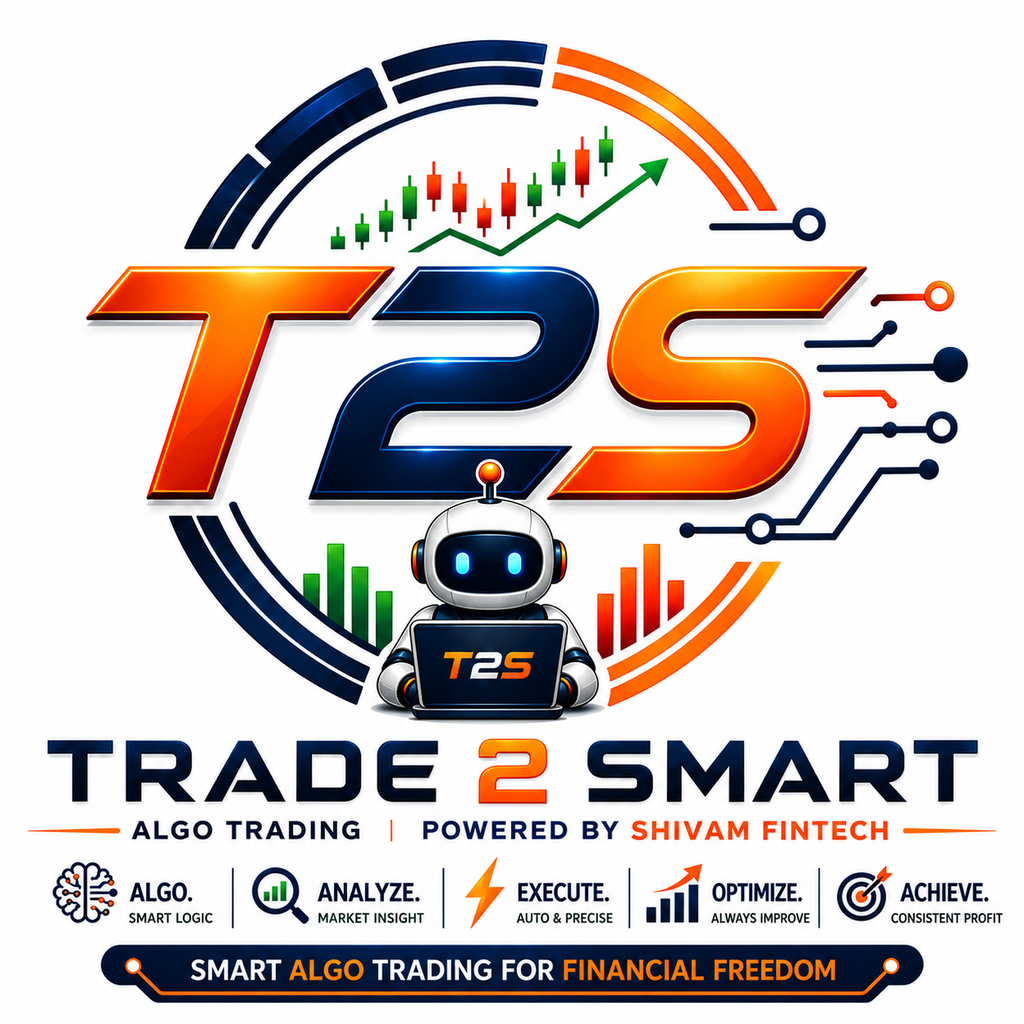
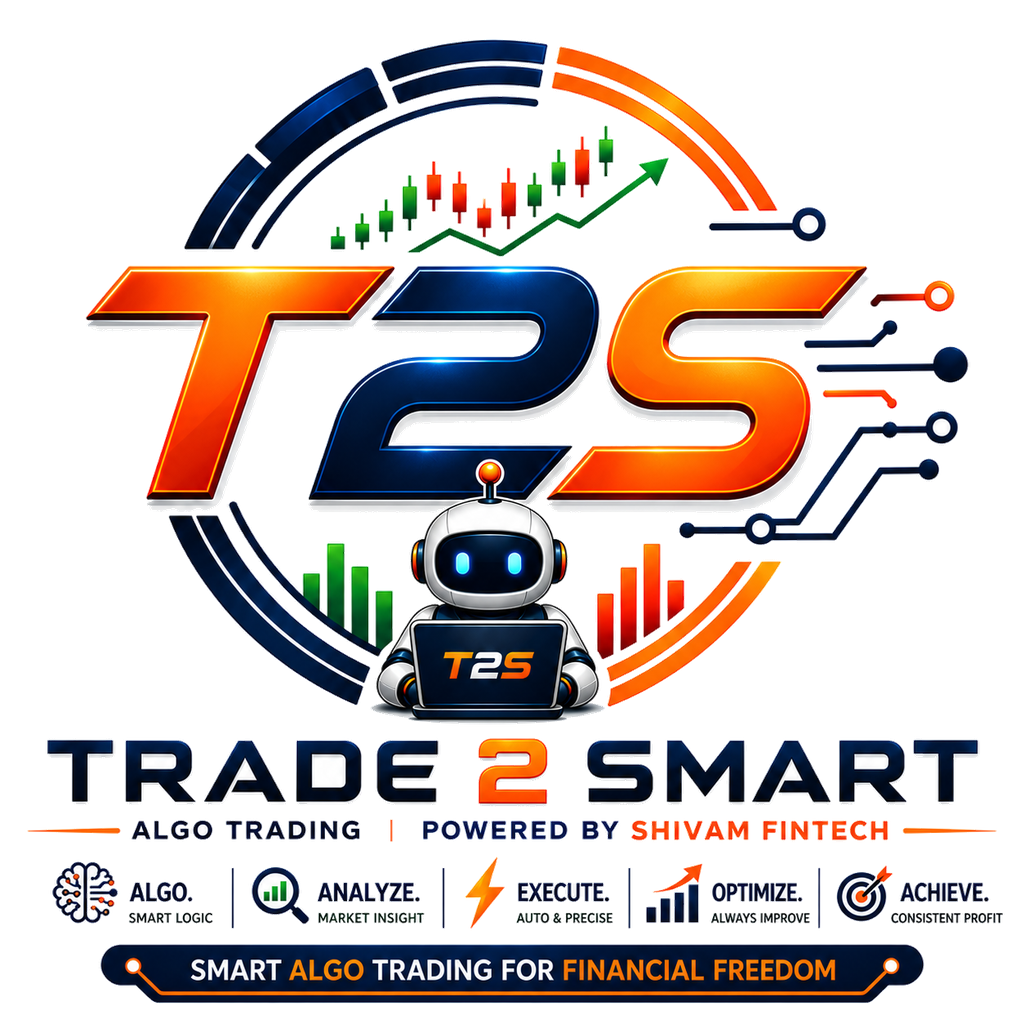
Match the T2S lockup to the login canvas
Knock the white plate out of the logo so the artwork sits on the page and card backgrounds, and drop the extra white frames around the login thumbnail.

diff --git a/src/login.css b/src/login.css
@@ -117,9 +117,7 @@
   height: auto;
   margin: 0 0 12px;
   object-fit: contain;
-  background: #fff;
-  border-radius: 28px;
-  box-shadow: 0 18px 50px rgba(15, 23, 42, 0.1);
+  background: transparent;
 }
 
 .t2s-login-panel {
@@ -142,16 +140,13 @@
 
 .t2s-login-avatar {
   display: flex;
-  width: 148px;
-  height: 148px;
+  width: 168px;
+  height: 168px;
   margin: 0 auto 16px;
   align-items: center;
   justify-content: center;
   overflow: hidden;
-  border-radius: 28px;
-  background: #fff;
-  border: 1px solid var(--border);
-  box-shadow: 0 12px 28px rgba(15, 23, 42, 0.08);
+  background: transparent;
 }
 
 .t2s-login-avatar img {
@@ -159,6 +154,7 @@
   height: 100%;
   object-fit: contain;
   display: block;
+  background: transparent;
 }
 
 .t2s-login-title {

diff --git a/index.html b/index.html
@@ -46,7 +46,7 @@
   <body>
     <div id="root">
       <div id="t2s-boot">
-        <img src="/t2s-logo.png" alt="Trade 2 Smart" width="120" height="120" style="background:#fff;border-radius:24px;padding:6px" />
+        <img src="/t2s-logo.png" alt="Trade 2 Smart" width="120" height="120" />
         <h1>Trade 2 Smart</h1>
         <p>Loading the desk…</p>
         <p>

diff --git a/scripts/render-brand-icons.py b/scripts/render-brand-icons.py
@@ -2,6 +2,7 @@
 """Keep public/mobile brand PNGs in sync with the official T2S lockup."""
 from __future__ import annotations
 
+from collections import deque
 from pathlib import Path
 
 from PIL import Image
@@ -11,12 +12,56 @@ PUBLIC = ROOT / "public"
 MOBILE = ROOT / "mobile" / "assets"
 SOURCE = PUBLIC / "t2s-logo.png"
 LIGHT = (255, 255, 255, 255)
+CANVAS = (244, 247, 251, 255)  # login page --bg #f4f7fb
 
 
 def load_source() -> Image.Image:
     if not SOURCE.exists():
         raise SystemExit(f"Missing official lockup: {SOURCE}")
-    return Image.open(SOURCE).convert("RGBA")
+    return knock_white(Image.open(SOURCE).convert("RGBA"))
+
+
+def knock_white(im: Image.Image, thresh: int = 12) -> Image.Image:
+    """Flood-fill near-white canvas connected to the border so the lockup sits on the page."""
+    im = im.copy()
+    pix = im.load()
+    w, h = im.size
+
+    def is_plate(x: int, y: int) -> bool:
+        r, g, b, a = pix[x, y]
+        if a == 0:
+            return False
+        return max(255 - r, 255 - g, 255 - b) <= thresh
+
+    seen = bytearray(w * h)
+    q: deque[tuple[int, int]] = deque()
+
+    def push(x: int, y: int) -> None:
+        i = y * w + x
+        if seen[i] or not is_plate(x, y):
+            return
+        seen[i] = 1
+        q.append((x, y))
+
+    for x in range(w):
+        push(x, 0)
+        push(x, h - 1)
+    for y in range(h):
+        push(0, y)
+        push(w - 1, y)
+
+    while q:
+        x, y = q.popleft()
+        pix[x, y] = (255, 255, 255, 0)
+        if x:
+            push(x - 1, y)
+        if x + 1 < w:
+            push(x + 1, y)
+        if y:
+            push(x, y - 1)
+        if y + 1 < h:
+            push(x, y + 1)
+    return im
 
 
 def fit(src: Image.Image, size: int, background: tuple[int, int, int, int] | None = None) -> Image.Image:
@@ -33,16 +78,13 @@ def fit(src: Image.Image, size: int, background: tuple[int, int, int, int] | Non
 
 def save(img: Image.Image, path: Path) -> None:
     path.parent.mkdir(parents=True, exist_ok=True)
-    if img.mode == "RGB":
-        img.save(path, "PNG", optimize=True)
-    else:
-        img.save(path, "PNG", optimize=True)
+    img.save(path, "PNG", optimize=True)
     print(path.relative_to(ROOT))
 
 
 def main() -> None:
     src = load_source()
-    logo = fit(src, 800, LIGHT)
+    logo = fit(src, 800)
     save(logo, PUBLIC / "t2s-logo.png")
     save(logo, MOBILE / "t2s-logo.png")
     save(fit(src, 32, LIGHT), PUBLIC / "favicon.png")
@@ -51,9 +93,9 @@ def main() -> None:
     save(icon, MOBILE / "icon.png")
     save(icon, MOBILE / "icon-light.png")
     save(icon, MOBILE / "splash-icon.png")
-    save(icon, MOBILE / "android-icon-foreground.png")
+    save(fit(src, 1024, CANVAS), MOBILE / "android-icon-foreground.png")
     save(fit(src, 48, LIGHT), MOBILE / "favicon.png")
-    save(Image.new("RGB", (1024, 1024), (255, 255, 255)), MOBILE / "android-icon-background.png")
+    save(Image.new("RGB", (1024, 1024), (244, 247, 251)), MOBILE / "android-icon-background.png")
     mono = fit(src, 1024, LIGHT).convert("L").convert("RGB")
     save(mono, MOBILE / "android-icon-monochrome.png")
 
